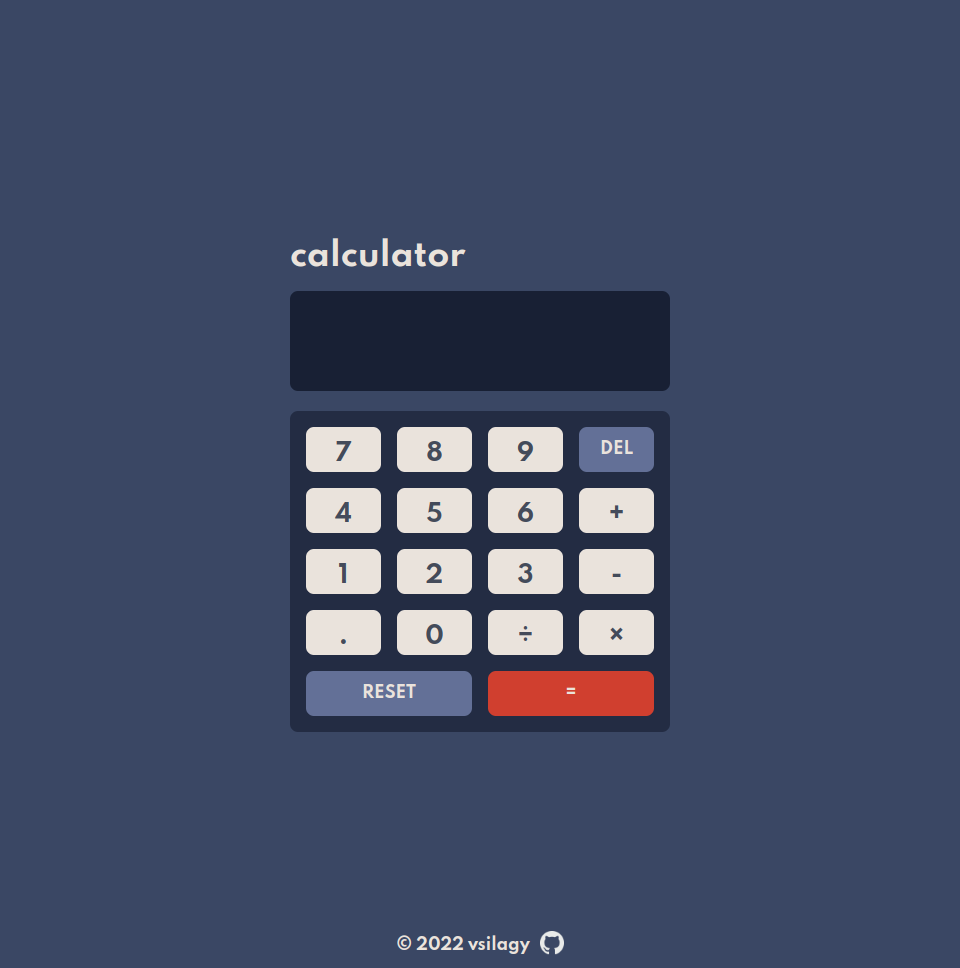
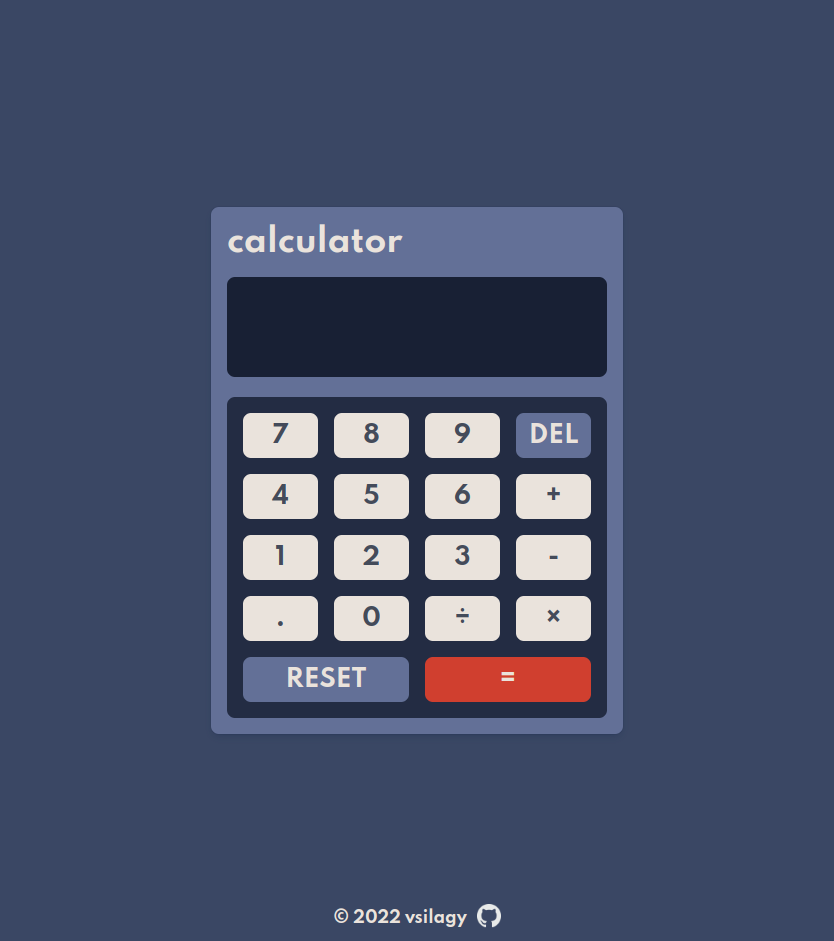
updated the layout, added a container

Changed region(s): [[0.2494, 0.2157, 0.7482, 0.8013], [0.4053, 0.9554, 0.6235, 0.9862]]

diff --git a/style.css b/style.css
@@ -24,6 +24,13 @@ body {
   height: 100vh;
 }
 
+.container {
+  padding: 1em;
+  background-color: var(--key-blue);
+  border-radius: 8px;
+  box-shadow: rgba(9, 30, 66, 0.25) 0px 4px 8px -2px, rgba(9, 30, 66, 0.08) 0px 0px 0px 1px;
+}
+
 h1 {
   font-size: 2rem;
   color: var(--key-light);

diff --git a/index.html b/index.html
@@ -13,7 +13,7 @@
     <title>Calculator</title>
   </head>
   <body>
-    <div>
+    <div class="container">
       <h1>calculator</h1>
       <div class="display">
         <div data-previous-display class="previous-display"></div>
